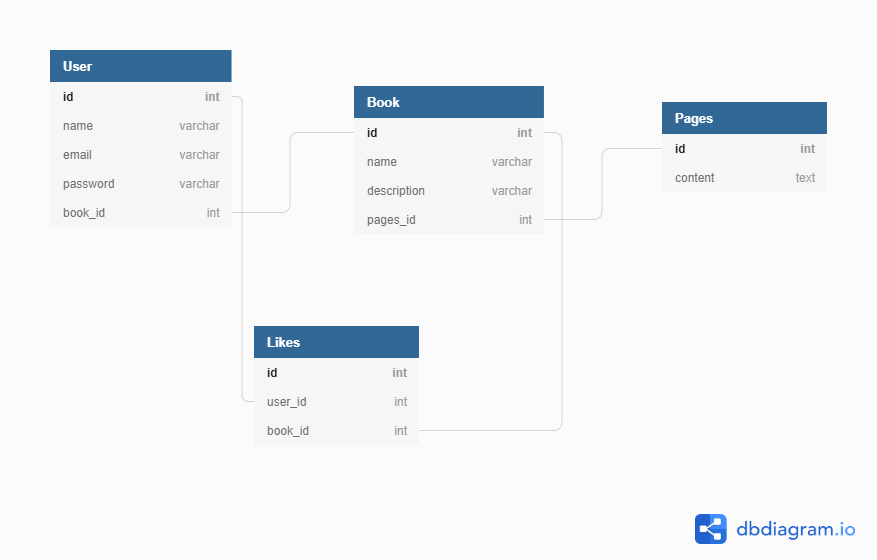
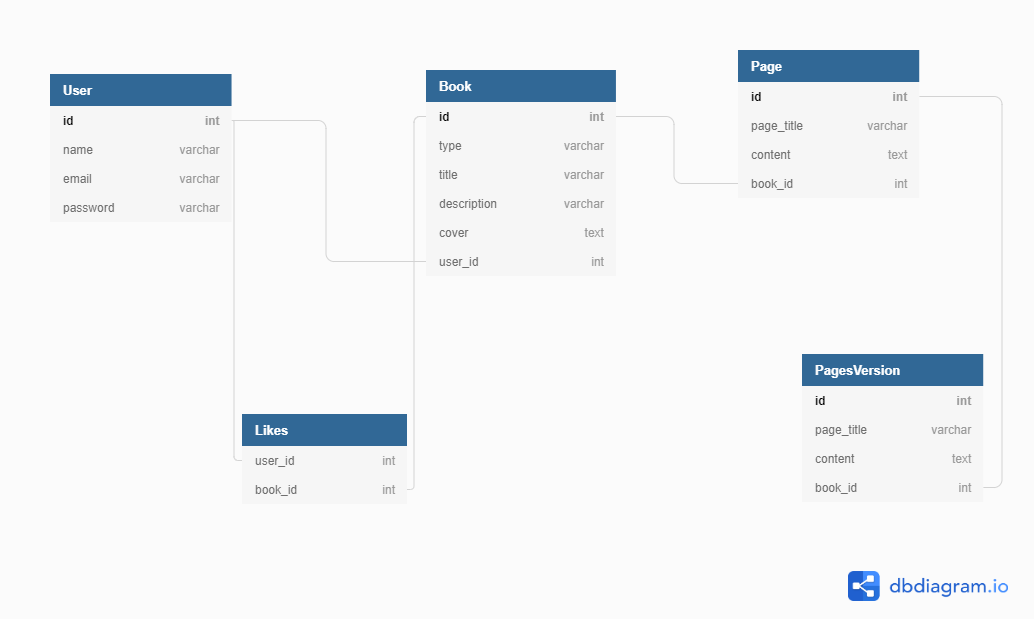
Added song lyrics for insperation and updatad database schema

diff --git a/static/api.js b/static/api.js
@@ -1,12 +1,35 @@
-$('#brouse-movies').on('click', moviesData)
+$('#brouse-movies').on('click', moviesData);
+$('#search-lyrics').on('click', songLyrics);
 
+async function songLyrics(e){
+    e.preventDefault();
+    uiExpand()
+    let artist = $('#song-artist').val();
+    let title = $('#song-title').val();
+    let res = await axios.get('/api/song_lirycs', {params: {artist: artist, title:title}})
+    let lyric = res.data.data.lyrics
+
+    displayLyrics(lyric)
+}
+
+function displayLyrics(lyrics){
+    $('#versions-display').append(`
+    <div class="card overflow-auto m-2" style="width: 40rem; height: 20rem; left:3rem;">
+        <div class="card-body m-1">
+            <div class="">
+                <p class=" center">${lyrics}</p>
+                </div>
+            </div>
+        </div>
+    `)
+}
 
 async function moviesData(e){
     e.preventDefault()
     uiExpand()
     let data = $('#movie-search').val()
-    res = await axios.get('/api/movies', {params: {query: data}})
-    console.log(res)
+    let res = await axios.get('/api/movies', {params: {query: data}})
+    
     displayMovieDetails(res.data.data.info)
     displayMovieDetails(res.data.data.results)
 }

diff --git a/templates/pages/page.html b/templates/pages/page.html
@@ -12,7 +12,11 @@
                     <a id='all-versions' class='text center' href="">Show All Versions</a>
                     
                         <input id="movie-search" placeholder="Movies insperation" class="center" type="text">
-                        <a id="brouse-movies" class='text center m-2' href="">Search</a>
+                        <a id="brouse-movies" class='text center m-2' href="">Search Movie</a>
+                        <h5 id="song-search" class='text center'>Search Song lirycs</h3>
+                        <input id="song-artist" placeholder="Song Author" class="center m-1" type="text">
+                        <input id="song-title" placeholder="Song Name" class="center m-1 " type="text">
+                        <a id="search-lyrics" class='text center m-2' href="">Search Song</a>
                     
                     <a id="back-button" class='text center hide' href="">Back</a>
                     <div  class="container ">

diff --git a/static/editor.js b/static/editor.js
@@ -112,6 +112,10 @@ function uiExpand() {
     $('#back-button').toggleClass('hide')
     $('#brouse-movies').toggleClass('hide')
     $('#movie-search').toggleClass('hide')
+    $('#song-search').toggleClass('hide')
+    $('#song-artist').toggleClass('hide')
+    $('#song-title').toggleClass('hide')
+    $('#search-lyrics').toggleClass('hide')
 }
 
 // Return UI to original state
@@ -126,6 +130,10 @@ function resetUI(e) {
     $('#back-button').toggleClass('hide')
     $('#brouse-movies').toggleClass('hide')
     $('#movie-search').toggleClass('hide')
+    $('#song-search').toggleClass('hide')
+    $('#song-artist').toggleClass('hide')
+    $('#song-title').toggleClass('hide')
+    $('#search-lyrics').toggleClass('hide')
 }
 
 //  Request the page Content from the server and add it to the eddiotor

diff --git a/static/pages.js b/static/pages.js
@@ -3,9 +3,7 @@ $('#add-page').on('click', createPage);
 async function createPage(e){
     e.preventDefault();
     let title = $('#page-title').val();
-    
     let url =$(location).attr('href');
-    
     res = await axios.post(`${url}/add-page`, {title: title})
 
     $('#page-container').html('')

diff --git a/app.py b/app.py
@@ -5,7 +5,7 @@ from forms import UserSignupForm, UserLoginForm, BookCreateForm
 from models import db, connect_db, User, Book, Likes, Page, version_serializer
 from sqlalchemy.exc import IntegrityError
 import json
-from api_calls import movies_muse
+from api_calls import movies_muse, song_l
 import pdb
 
 CURRENT_USER = 'user'
@@ -69,6 +69,7 @@ def signup():
 
 @app.route('/login', methods=['GET', 'POST'])
 def user_login():
+    """ Login page"""
     form = UserLoginForm()
 
     if form.validate_on_submit():
@@ -94,7 +95,7 @@ def user_logout():
 
 @app.route('/')
 def index():
-    # pdb.set_trace()
+    """ Render the Welcome page """
     return render_template('index.html')
 
 
@@ -342,6 +343,7 @@ def save_page(id):
 
 @app.route('/pages/<int:id>/delete', methods=['DELETE'])
 def delete_page_and_versions(id):
+    """ Delete a page and all versions """
     if not g.user:
         flash('You have to Login')
         return redirect('/')
@@ -393,7 +395,7 @@ def delete_version(id, ver_id):
 
 @app.route('/pages/<int:id>/versions')
 def get_page_versions(id):
-
+    """ Given a page id send Json with all versions data """
     if not g.user:
         flash('You have to Login')
         return redirect('/')
@@ -413,7 +415,7 @@ def get_page_versions(id):
 
 @app.route('/pages/<int:id>/revert/<int:ver_id>', methods=['POST'])
 def revert_to_version(id, ver_id):
-
+    """ Using the page and the version Id revert to old version when resceve a reuqest """
     if not g.user:
         flash('You have to Login')
         return redirect('/')
@@ -466,7 +468,7 @@ def all_reed_pages(id):
 #                  Gettiong data form movies api
 @app.route('/api/movies')
 def api_movies():
-
+    """ Send Movie data to frontend"""
     if not g.user:
         flash('You have to Login')
         return redirect('/')
@@ -481,6 +483,7 @@ def api_movies():
 
 @app.route('/add-remove-like/<int:id>', methods=['POST'])
 def add_remove_like(id):
+    """ Add and remove likes from database """
     q = Likes.query.filter_by(user_id=g.user.id, book_id=id).first()
     if q:
         db.session.delete(q)
@@ -497,6 +500,7 @@ def add_remove_like(id):
 
 @app.route('/api/search')
 def search_book():
+    """ Filter book and return """
     if not g.user:
         flash('You have to Login')
         return redirect('/')
@@ -507,3 +511,18 @@ def search_book():
     results = [book.serialize() for book in b]
     
     return jsonify(books=results)
+
+# *****************************************************************************
+#         Song lyrics search
+
+@app.route('/api/song_lirycs')
+def song_lirycs():
+    if not g.user:
+        flash('You have to Login')
+        return redirect('/')
+
+    artist = request.args['artist']
+    title = request.args['title']
+    
+    data = song_l(artist, title)
+    return jsonify(data=data)

diff --git a/models.py b/models.py
@@ -32,6 +32,7 @@ class Likes(db.Model):
         unique=True
     )
     def likes_serialize(self):
+        """ serialize likes """
         return{
         'id': self.id,
         'book_id': self.book_id,
@@ -90,7 +91,7 @@ class User(db.Model):
 
     @classmethod
     def authenticate(clsn, username, password):
-
+        """ Authenticate a user"""
         user = clsn.query.filter_by(username=username).first()
 
         if user:
@@ -135,6 +136,7 @@ class Book(db.Model):
     user = db.relationship('User', backref='books')
 
     def serialize(self):
+        """ Serialize a Book """
         return{
         'id': self.id,
         'type': self.type,
@@ -165,6 +167,7 @@ class Page(db.Model, VersioningMixin):
     book = db.relationship('Book', backref='pages')
 
     def serialize(self):
+        """ Serialize page """
         return {
             'id': self.id,
             'page_title': self.page_title,
@@ -174,6 +177,10 @@ class Page(db.Model, VersioningMixin):
 
 
 def version_serializer(self):
+    """ Versions serializer 
+        The version serializer is out of the class methot becouse it
+        is serializing versions from Continuum
+    """
     return {
         'id': self.id,
         'page_title': self.page_title,
